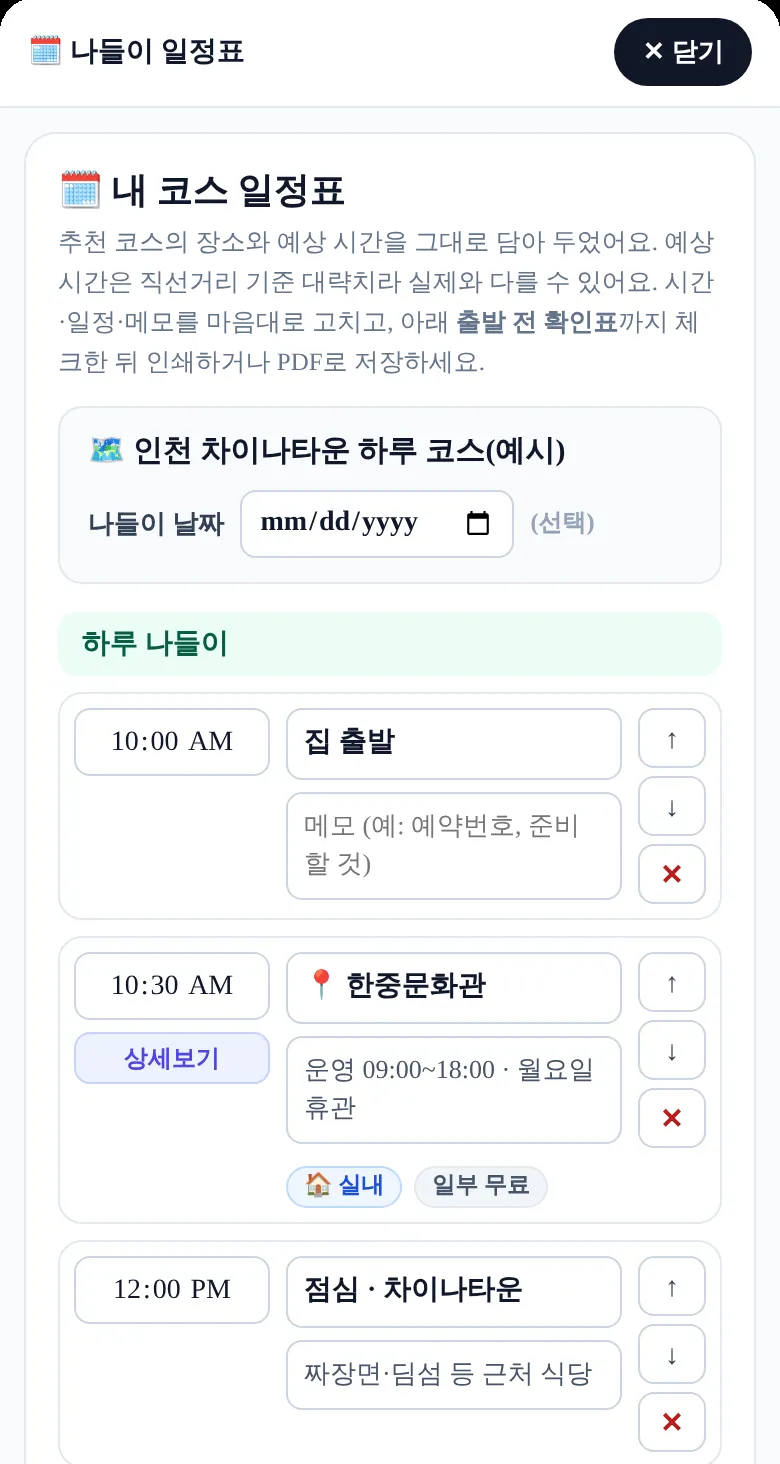
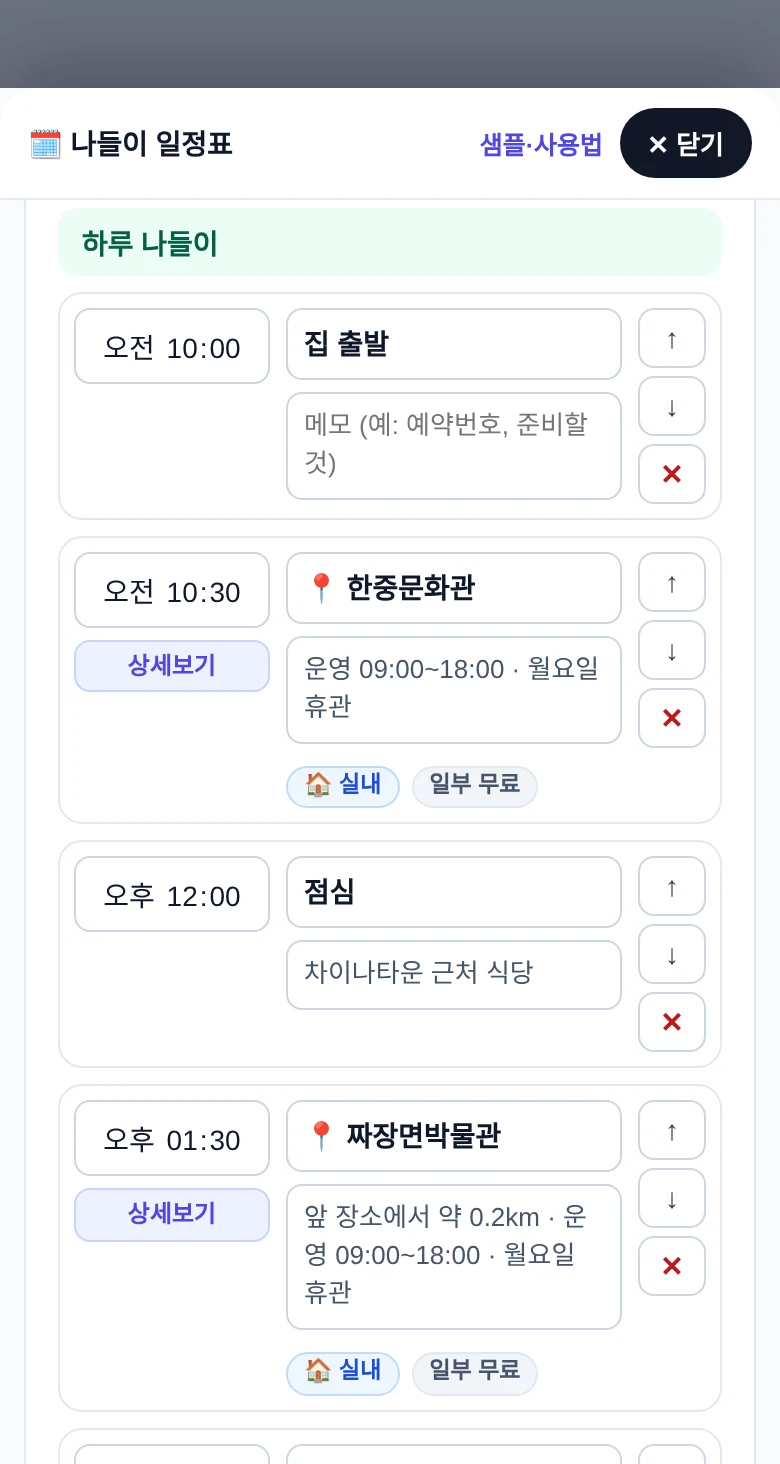
Add files via upload

diff --git a/festival/plan-guide.html b/festival/plan-guide.html
@@ -121,7 +121,7 @@
   .gd .gd-src { margin-top: 26px; font-size: 12px; color: #94a3b8; }
   html body { padding-bottom: 120px; }
 </style>
-<script type="application/ld+json">{"@context": "https://schema.org", "@type": "FAQPage", "mainEntity": [{"@type": "Question", "name": "일정표를 만들려면 로그인이나 가입이 필요한가요?", "acceptedAnswer": {"@type": "Answer", "text": "필요 없어요. 지도에서 장소 팝업이나 코스 카드의 일정표 버튼을 누르면 바로 열리고, 무료로 쓸 수 있어요."}}, {"@type": "Question", "name": "만든 일정표는 어디에 저장되나요?", "acceptedAnswer": {"@type": "Answer", "text": "지금 쓰는 기기의 브라우저에만 저장되고 서버로는 보내지 않아요. 그래서 휴대폰에서 만든 일정표가 PC에서는 보이지 않아요. 다른 기기에서도 보려면 인쇄 화면에서 PDF로 저장해 두세요."}}, {"@type": "Question", "name": "휴대폰에서도 PDF로 저장할 수 있나요?", "acceptedAnswer": {"@type": "Answer", "text": "일정표 아래의 \"일정표 인쇄·PDF 저장\" 버튼을 누르면 브라우저의 인쇄 창이 열려요. 거기서 대상(프린터)을 \"PDF로 저장\"으로 고르면 돼요. 기기와 브라우저마다 메뉴 이름이 조금 달라요."}}, {"@type": "Question", "name": "일정표에 적힌 시간은 정확한가요?", "acceptedAnswer": {"@type": "Answer", "text": "코스 카드에서 만든 일정표의 시간은 운영시간과 직선거리로 계산한 대략치예요. 실제 도로 사정, 주차, 줄 서는 시간은 반영되지 않으니 여유를 두고 직접 고쳐 쓰세요."}}, {"@type": "Question", "name": "근처 장소는 어떤 기준으로 담기나요?", "acceptedAnswer": {"@type": "Answer", "text": "기준 장소에서 직선거리로 가까운 곳부터 후보를 고르고, 운영시간 정보가 없는 곳은 순서를 뒤로 보내요. 후보 중 2곳은 가능하면 실내와 야외가 섞이게 미리 담고, 나머지는 눌러서 더 넣을 수 있어요."}}]}</script>
+<script type="application/ld+json">{"@context": "https://schema.org", "@type": "FAQPage", "mainEntity": [{"@type": "Question", "name": "일정표를 만들려면 로그인이나 가입이 필요한가요?", "acceptedAnswer": {"@type": "Answer", "text": "필요 없어요. 지도에서 장소 팝업이나 코스 카드의 일정표 버튼을 누르면 바로 열리고, 무료로 쓸 수 있어요."}}, {"@type": "Question", "name": "만든 일정표는 어디에 저장되나요?", "acceptedAnswer": {"@type": "Answer", "text": "지금 쓰는 기기의 브라우저에만 저장되고 서버로는 보내지 않아요. 그래서 휴대폰에서 만든 일정표가 PC에서는 보이지 않아요. 다른 기기에서도 보려면 인쇄 화면에서 PDF로 저장해 두세요."}}, {"@type": "Question", "name": "휴대폰에서도 PDF로 저장할 수 있나요?", "acceptedAnswer": {"@type": "Answer", "text": "일정표 아래의 \"일정표 인쇄·PDF 저장\" 버튼을 누르면 브라우저의 인쇄 창이 열려요. 거기서 대상(프린터)을 \"PDF로 저장\"으로 고르면 돼요. 기기와 브라우저마다 메뉴 이름이 조금 달라요."}}, {"@type": "Question", "name": "일정표에 적힌 시간은 정확한가요?", "acceptedAnswer": {"@type": "Answer", "text": "코스 카드에서 만든 일정표의 시간은 운영시간과 직선거리로 계산한 대략치예요. 실제 도로 사정, 주차, 줄 서는 시간은 반영되지 않으니 여유를 두고 직접 고쳐 쓰세요."}}, {"@type": "Question", "name": "점심 식당이나 카페는 어떻게 넣나요?", "acceptedAnswer": {"@type": "Answer", "text": "일정 아래의 \"식당·카페 넣기\"를 누르면 앞 장소 근처의 음식점·카페를 카카오맵 검색 기준으로 가까운 순서대로 보여 줘요. 고르면 일정의 \"점심\" 칸이 그 식당으로 바뀌고, 이동 순서 그림과 확인표에도 같이 반영돼요. 영업시간·휴무·메뉴는 카카오맵이나 전화로 꼭 확인하세요."}}, {"@type": "Question", "name": "근처 장소는 어떤 기준으로 담기나요?", "acceptedAnswer": {"@type": "Answer", "text": "기준 장소에서 직선거리로 가까운 곳부터 후보를 고르고, 운영시간 정보가 없는 곳은 순서를 뒤로 보내요. 후보 중 2곳은 가능하면 실내와 야외가 섞이게 미리 담고, 나머지는 눌러서 더 넣을 수 있어요."}}]}</script>
 </head>
 <body>
 <!-- HN_START -->
@@ -282,12 +282,13 @@ function toggleMenu() {
   <h2 id="gd2">2. 만드는 방법 3단계</h2>
   <h3>① 장소 팝업에서 시작하기</h3>
   <p>지도나 목록에서 아이랑 장소를 눌러 상세 팝업을 열면 왼쪽 아래에 "이 장소로 일정표" 버튼이 있어요. 누르면 그 장소를 기준으로 집 출발, 장소 방문, 점심, 근처 나들이픽 2곳, 귀가까지 담긴 하루 일정표 초안이 열려요. 일정표를 닫으면 보던 장소 팝업으로 돌아와요.</p>
-  <div class="gd-figs"><figure class="gd-fig"><img src="/data/plan-guide-popup.webp" alt="장소 상세 팝업 왼쪽 아래의 이 장소로 일정표 버튼" width="780" height="1370" loading="lazy" decoding="async"><figcaption>장소 팝업 왼쪽 아래의 &quot;이 장소로 일정표&quot; 버튼</figcaption></figure><figure class="gd-fig"><img src="/data/plan-guide-place-plan.webp" alt="짜장면박물관을 기준으로 만든 하루 나들이 일정표 편집 화면" width="780" height="1464" loading="lazy" decoding="async"><figcaption>그 장소로 만든 일정표 초안</figcaption></figure></div>
+  <div class="gd-figs"><figure class="gd-fig"><img src="/data/plan-guide-popup.webp" alt="장소 상세 팝업 왼쪽 아래의 이 장소로 일정표 버튼" width="780" height="1370" loading="lazy" decoding="async"><figcaption>장소 팝업 왼쪽 아래의 &quot;이 장소로 일정표&quot; 버튼</figcaption></figure><figure class="gd-fig"><img src="/data/plan-guide-place-plan.webp?v=20261123" alt="짜장면박물관을 기준으로 만든 하루 나들이 일정표 편집 화면" width="780" height="1464" loading="lazy" decoding="async"><figcaption>그 장소로 만든 일정표 초안</figcaption></figure></div>
   <h3>② 코스 카드에서 시작하기</h3>
   <p>지도의 코스 추천 카드에는 "이 코스로 일정표 만들기" 버튼이 있어요. 누르면 카드에 묶인 장소와 예상 시간, 앞 장소와의 직선거리가 그대로 일정표 줄로 옮겨져요. 코스가 마음에 드는데 시간표가 필요할 때 편해요.</p>
-  <div class="gd-figs"><figure class="gd-fig"><img src="/data/plan-guide-course-plan.webp" alt="인천 차이나타운 하루 코스를 담은 코스 일정표 편집 화면" width="780" height="1464" loading="lazy" decoding="async"><figcaption>코스 일정표 편집 화면(시간·메모를 고칠 수 있어요)</figcaption></figure></div>
+  <div class="gd-figs"><figure class="gd-fig"><img src="/data/plan-guide-course-plan.webp?v=20261123" alt="인천 차이나타운 하루 코스를 담은 코스 일정표 편집 화면" width="780" height="1464" loading="lazy" decoding="async"><figcaption>코스 일정표 편집 화면(시간·메모를 고칠 수 있어요)</figcaption></figure></div>
   <h3>③ 고치고 저장하기</h3>
   <p>시간·일정·메모 칸은 눌러서 바로 고칠 수 있어요. 화살표로 순서를 바꾸고, ✕로 줄을 지우고, "일정 추가"로 직접 넣거나, "🍴 식당·카페 넣기"로 앞 장소 근처의 음식점·카페를 찾아 점심 칸에 넣을 수 있어요(카카오맵 검색 기준이라 영업시간은 꼭 확인하세요). 근처 후보를 눌러 일정에 더 넣을 수도 있고, 나들이 날짜를 고르면 일정표에 함께 적혀요. 마지막으로 아래 미리보기를 확인하고 "일정표 인쇄·PDF 저장"을 누르면 A4 한 장으로 나와요.</p>
+  <div class="gd-figs"><figure class="gd-fig"><img src="/data/plan-guide-add-meal.webp?v=20261123" alt="일정 추가 옆의 식당·카페 넣기 버튼과 출발 전 확인표" width="780" height="1464" loading="lazy" decoding="async"><figcaption>일정 추가 옆의 &quot;식당·카페 넣기&quot; 버튼</figcaption></figure></div>
 
   <h2 id="gd3">3. 샘플: 인천 차이나타운 하루 코스</h2>
   <p>실제 장소 정보로 짠 예시예요. 한중문화관, 짜장면박물관, 인천개항박물관은 서로 직선으로 300m 안쪽이라 걸어서 이어 가기 좋고, 마지막에 야외인 월미공원을 넣어 실내와 야외를 섞었어요. 세 박물관 모두 월요일에 쉬어서 화~일요일에 가는 코스예요.</p>
@@ -317,7 +318,7 @@ function toggleMenu() {
   </ul>
 
   <h2 id="gd6">6. 자주 묻는 질문</h2>
-  <details class="gd-q"><summary>일정표를 만들려면 로그인이나 가입이 필요한가요?</summary><p>필요 없어요. 지도에서 장소 팝업이나 코스 카드의 일정표 버튼을 누르면 바로 열리고, 무료로 쓸 수 있어요.</p></details><details class="gd-q"><summary>만든 일정표는 어디에 저장되나요?</summary><p>지금 쓰는 기기의 브라우저에만 저장되고 서버로는 보내지 않아요. 그래서 휴대폰에서 만든 일정표가 PC에서는 보이지 않아요. 다른 기기에서도 보려면 인쇄 화면에서 PDF로 저장해 두세요.</p></details><details class="gd-q"><summary>휴대폰에서도 PDF로 저장할 수 있나요?</summary><p>일정표 아래의 &quot;일정표 인쇄·PDF 저장&quot; 버튼을 누르면 브라우저의 인쇄 창이 열려요. 거기서 대상(프린터)을 &quot;PDF로 저장&quot;으로 고르면 돼요. 기기와 브라우저마다 메뉴 이름이 조금 달라요.</p></details><details class="gd-q"><summary>일정표에 적힌 시간은 정확한가요?</summary><p>코스 카드에서 만든 일정표의 시간은 운영시간과 직선거리로 계산한 대략치예요. 실제 도로 사정, 주차, 줄 서는 시간은 반영되지 않으니 여유를 두고 직접 고쳐 쓰세요.</p></details><details class="gd-q"><summary>근처 장소는 어떤 기준으로 담기나요?</summary><p>기준 장소에서 직선거리로 가까운 곳부터 후보를 고르고, 운영시간 정보가 없는 곳은 순서를 뒤로 보내요. 후보 중 2곳은 가능하면 실내와 야외가 섞이게 미리 담고, 나머지는 눌러서 더 넣을 수 있어요.</p></details>
+  <details class="gd-q"><summary>일정표를 만들려면 로그인이나 가입이 필요한가요?</summary><p>필요 없어요. 지도에서 장소 팝업이나 코스 카드의 일정표 버튼을 누르면 바로 열리고, 무료로 쓸 수 있어요.</p></details><details class="gd-q"><summary>만든 일정표는 어디에 저장되나요?</summary><p>지금 쓰는 기기의 브라우저에만 저장되고 서버로는 보내지 않아요. 그래서 휴대폰에서 만든 일정표가 PC에서는 보이지 않아요. 다른 기기에서도 보려면 인쇄 화면에서 PDF로 저장해 두세요.</p></details><details class="gd-q"><summary>휴대폰에서도 PDF로 저장할 수 있나요?</summary><p>일정표 아래의 &quot;일정표 인쇄·PDF 저장&quot; 버튼을 누르면 브라우저의 인쇄 창이 열려요. 거기서 대상(프린터)을 &quot;PDF로 저장&quot;으로 고르면 돼요. 기기와 브라우저마다 메뉴 이름이 조금 달라요.</p></details><details class="gd-q"><summary>일정표에 적힌 시간은 정확한가요?</summary><p>코스 카드에서 만든 일정표의 시간은 운영시간과 직선거리로 계산한 대략치예요. 실제 도로 사정, 주차, 줄 서는 시간은 반영되지 않으니 여유를 두고 직접 고쳐 쓰세요.</p></details><details class="gd-q"><summary>근처 장소는 어떤 기준으로 담기나요?</summary><p>기준 장소에서 직선거리로 가까운 곳부터 후보를 고르고, 운영시간 정보가 없는 곳은 순서를 뒤로 보내요. 후보 중 2곳은 가능하면 실내와 야외가 섞이게 미리 담고, 나머지는 눌러서 더 넣을 수 있어요.</p></details><details class="gd-q"><summary>점심 식당이나 카페는 어떻게 넣나요?</summary><p>일정 아래의 &quot;식당·카페 넣기&quot;를 누르면 앞 장소 근처의 음식점·카페를 카카오맵 검색 기준으로 가까운 순서대로 보여 줘요. 고르면 일정의 &quot;점심&quot; 칸이 그 식당으로 바뀌고(체크를 풀면 새 줄로 추가), 이동 순서 그림과 확인표에도 같이 반영돼요. 영업시간·휴무·메뉴는 카카오맵이나 전화로 꼭 확인하세요.</p></details>
 
   <h2>지금 일정표 만들어 보기</h2>
   <div class="gd-cta">
